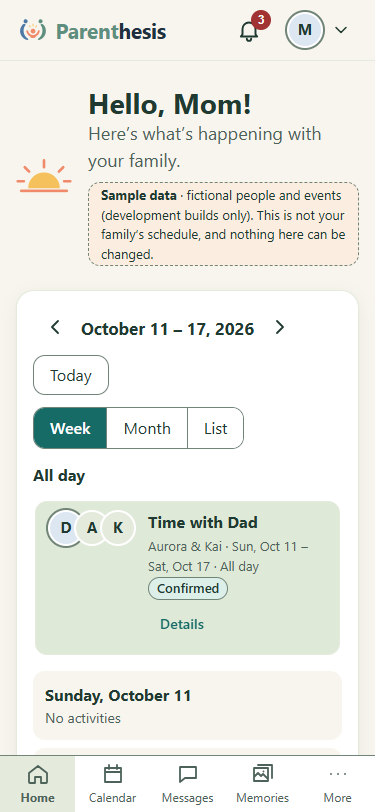
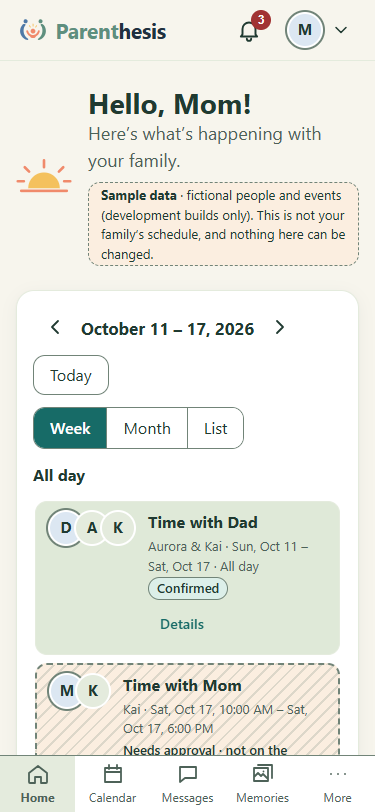
feat(dashboard): proposals on the calendar (hatched), single account menu
User decisions, October 17, 2026:
- Proposed parenting time now appears in the calendar's all-day row, in its
  own lane beneath the schedule, with diagonal hatching, a dashed outline, a
  "Proposed" label and "Needs approval · not on the schedule yet" (tooltip and
  screen-reader text in narrow blocks). Replaces the strip below the grid.
- The sidebar no longer repeats the "Hi, {name}!" profile button; the account
  menu lives in the top bar only.

Changed region(s): [[0.088, 0.8005, 0.9093, 0.9544]]

diff --git a/src/frontend/src/app/features/dashboard/dashboard-page.spec.ts b/src/frontend/src/app/features/dashboard/dashboard-page.spec.ts
@@ -148,7 +148,7 @@ describe('DashboardPage (approved design)', () => {
 
     it('shows multi-day parenting time as one continuous block with the parent’s and children’s avatars', async () => {
       const { el } = await render({ sample: true });
-      const blocks = [...el.querySelectorAll('.allday > li')];
+      const blocks = [...el.querySelectorAll('.allday > li[data-status="confirmed"]')];
 
       expect(blocks).toHaveLength(1);
       expect(text(blocks[0].querySelector('.pt__title'))).toBe('Time with Dad');
@@ -176,13 +176,18 @@ describe('DashboardPage (approved design)', () => {
       expect(text(columns[3])).toContain('Soccer Practice'); // Wednesday
     });
 
-    it('keeps proposals out of the schedule and clearly labelled', async () => {
+    it('shows proposals on the calendar, below the schedule, marked as proposed and needing approval', async () => {
       const { el } = await render({ sample: true });
-      const proposal = el.querySelector('.proposals li')!;
+      const blocks = [...el.querySelectorAll<HTMLElement>('.allday > li')];
+      const proposal = blocks.find((li) => text(li).includes('Time with Mom'))!;
 
-      expect(text(proposal)).toContain('Time with Mom');
+      expect(proposal.getAttribute('data-status')).toBe('proposed'); // Hatched, dashed outline.
       expect(text(proposal)).toContain('Proposed');
-      expect([...el.querySelectorAll('.allday > li')].some((li) => text(li).includes('Time with Mom'))).toBe(false);
+      expect(text(proposal)).toContain('Needs approval');
+      expect(proposal.style.getPropertyValue('--lane')).toBe('2'); // Its own lane beneath the confirmed schedule.
+      const confirmed = blocks.find((li) => text(li).includes('Time with Dad'))!;
+      expect(confirmed.getAttribute('data-status')).toBe('confirmed');
+      expect(text(confirmed)).not.toContain('Needs approval');
     });
 
     it('lists what needs this parent’s review first in Upcoming, linking to approvals', async () => {
@@ -201,7 +206,7 @@ describe('DashboardPage (approved design)', () => {
       toggle().click();
       await settle(fixture);
       expect(toggle().getAttribute('aria-pressed')).toBe('true');
-      expect(el.querySelectorAll('.allday > li')).toHaveLength(2);
+      expect(el.querySelectorAll('.allday > li[data-status="confirmed"]')).toHaveLength(2);
 
       button(el, 'Next week').click();
       await settle(fixture);

diff --git a/src/frontend/src/app/features/dashboard/week-calendar.html b/src/frontend/src/app/features/dashboard/week-calendar.html
@@ -59,6 +59,7 @@
                 [style.--start]="place.startColumn"
                 [style.--end]="place.endColumn"
                 [style.--lane]="place.lane + 1"
+                [attr.title]="block.status === 'proposed' ? 'Proposed: needs approval, not on the schedule yet' : null"
               >
                 <span class="pt__icon" aria-hidden="true"><app-icon name="calendar" [size]="22" /></span>
                 <span class="pt__avatars" aria-hidden="true">
@@ -78,6 +79,9 @@
                     }
                   </span>
                   <span class="pt__meta">{{ childNames(block.children) }} · {{ range(block) }}</span>
+                  @if (block.status === 'proposed') {
+                    <span class="pt__note">Needs approval · not on the schedule yet</span>
+                  }
                   @if (block.status === 'confirmed' && !block.changePending) {
                     <span class="visually-hidden">, confirmed</span>
                   }
@@ -158,6 +162,9 @@
               <span class="pt__text">
                 <span class="pt__title">{{ block.title }}</span>
                 <span class="pt__meta">{{ childNames(block.children) }} · {{ range(block) }}</span>
+                @if (block.status === 'proposed') {
+                  <span class="pt__note">Needs approval · not on the schedule yet</span>
+                }
                 <span class="pt__status">
                   <app-status-label [status]="block.status" />
                   @if (block.changePending) {
@@ -226,22 +233,6 @@
         }
       </ol>
     </div>
-
-    <!-- Proposals are not schedule: compact lines outside the grid, always labelled Proposed. -->
-    @if (proposals().length > 0) {
-      <section class="proposals" aria-labelledby="proposals-heading">
-        <h3 id="proposals-heading">Proposed changes</h3>
-        <ul>
-          @for (block of proposals(); track block.key) {
-            <li>
-              <app-status-label status="proposed" />
-              <span>{{ block.title }} · {{ childNames(block.children) }} · {{ range(block) }}</span>
-            </li>
-          }
-        </ul>
-        <p class="muted">Not on the calendar until both parents agree.</p>
-      </section>
-    }
 
     <footer class="cal__footer">
       @if (split()) {

diff --git a/src/frontend/src/app/features/dashboard/week-calendar.scss b/src/frontend/src/app/features/dashboard/week-calendar.scss
@@ -217,9 +217,22 @@ ul {
   }
 }
 
+// Proposed: diagonal hatching, a dashed outline and written labels, never colour alone. Not part of the schedule.
 .pt[data-status='proposed'] {
   border: 2px dashed var(--color-outline);
-  background: var(--color-status-pending-bg);
+  background:
+    repeating-linear-gradient(
+      -45deg,
+      transparent 0 7px,
+      color-mix(in srgb, var(--color-outline) 22%, transparent) 7px 9px
+    ),
+    var(--color-status-pending-bg);
+}
+
+.pt__note {
+  color: var(--color-text);
+  font-size: 0.8125rem;
+  font-weight: 600;
 }
 
 .pt__icon {
@@ -536,31 +549,19 @@ ul {
   .pt__meta {
     display: none;
   }
-}
 
-// Proposals stay outside the grid (they aren't schedule yet): one compact line each, so the calendar keeps close to
-// its approved height.
-.proposals {
-  display: flex;
-  flex-wrap: wrap;
-  align-items: center;
-  gap: var(--space-1) var(--space-3);
-  margin-top: var(--space-2);
-  font-size: 0.875rem;
-
-  h3 {
-    font-size: 0.875rem;
+  // Short proposals keep the hatching, dashed outline and "Proposed" label; the longer note moves to the tooltip
+  // (and stays available to screen readers) so the block stays compact.
+  .pt__note {
+    position: absolute;
+    width: 1px;
+    height: 1px;
+    overflow: hidden;
+    clip-path: inset(50%);
+    white-space: nowrap;
   }
 
-  ul {
-    display: contents;
-  }
-
-  li {
-    display: inline-flex;
-    flex-wrap: wrap;
-    align-items: center;
-    gap: var(--space-1) var(--space-2);
-    min-width: 0;
+  .pt__title {
+    font-size: 0.9375rem;
   }
 }

diff --git a/src/frontend/src/app/features/dashboard/week-calendar.ts b/src/frontend/src/app/features/dashboard/week-calendar.ts
@@ -95,9 +95,15 @@ export class WeekCalendar {
   );
 
   private readonly blocks = computed(() => groupParentingTime(this.week()?.parentingTime ?? [], { split: this.split() }));
-  /** The schedule: confirmed (and rejected) arrangements. Proposals are listed separately below the grid. */
-  protected readonly allDay = computed(() => this.blocks().filter((b) => b.status !== 'proposed'));
-  protected readonly proposals = computed(() => this.blocks().filter((b) => b.status === 'proposed'));
+  /**
+   * The all-day row: the schedule (confirmed and rejected arrangements) first, then proposals, which take their own
+   * lane beneath it. Proposals are hatched, outlined and labelled "Proposed · Needs approval", so they never read as
+   * part of the schedule (approved by the user on October 17, 2026).
+   */
+  protected readonly allDay = computed(() => [
+    ...this.blocks().filter((b) => b.status !== 'proposed'),
+    ...this.blocks().filter((b) => b.status === 'proposed'),
+  ]);
   protected readonly placements = computed(() => placeInWeek(this.allDay(), this.weekStart()));
   protected readonly allDayLanes = computed(() => Math.max(1, ...[...this.placements().values()].map((p) => p.lane + 1)));
 

diff --git a/src/frontend/src/app/layout/shells.spec.ts b/src/frontend/src/app/layout/shells.spec.ts
@@ -44,11 +44,14 @@ describe('application shells', () => {
       expect(body.querySelector('main h1')!.textContent).toBe('Child Essentials');
     });
 
-    it('offers an account menu instead of a bare sign-out button', async () => {
+    it('offers one account menu, in the top bar, instead of a bare sign-out button', async () => {
       const body = await open('/');
 
-      expect([...body.querySelectorAll('button[aria-label="Account menu"]')]).toHaveLength(2); // Sidebar and top bar.
-      expect(body.textContent).toContain('Hi, Alex!');
+      const menus = [...body.querySelectorAll('button[aria-label="Account menu"]')];
+      expect(menus).toHaveLength(1);
+      expect(menus[0].closest('header.topbar')).not.toBeNull();
+      expect(menus[0].textContent).toContain('Alex');
+      expect(body.querySelector('.sidebar')!.textContent).not.toContain('Hi, Alex');
     });
 
     it('marks the current page for assistive technology', async () => {

diff --git a/src/frontend/src/app/layout/parent-shell/parent-shell.scss b/src/frontend/src/app/layout/parent-shell/parent-shell.scss
@@ -38,8 +38,7 @@ ul {
   font-size: 1.05rem;
 }
 
-.account,
-.profile {
+.account {
   display: inline-flex;
   align-items: center;
   gap: var(--space-2);
@@ -242,19 +241,6 @@ a.is-active {
     font-size: 1.6rem;
     line-height: 1.3;
     transform: rotate(-8deg);
-  }
-
-  .profile {
-    justify-content: flex-start;
-    width: 100%;
-    padding: var(--space-2) var(--space-3);
-    border-top: 1px solid var(--color-surface-soft);
-    border-radius: var(--radius-control);
-
-    .profile__hi {
-      flex: 1;
-      text-align: start;
-    }
   }
 
   .topbar {

diff --git a/src/frontend/src/app/layout/parent-shell/parent-shell.html b/src/frontend/src/app/layout/parent-shell/parent-shell.html
@@ -52,11 +52,7 @@
       <p class="tagline">Different homes.<br />Same love.</p>
     </div>
 
-    <button class="profile" type="button" [matMenuTriggerFor]="accountMenu" aria-label="Account menu">
-      <app-avatar [name]="firstName()" kind="parent" [size]="40" />
-      <span class="profile__hi">Hi, {{ firstName() }}!</span>
-      <app-icon name="chevron-down" [size]="20" />
-    </button>
+    <!-- No profile button here: the account menu is in the top bar only (user decision, October 17, 2026). -->
   </aside>
 
   <header class="topbar">

diff --git a/src/frontend/src/app/layout/parent-shell/parent-shell.ts b/src/frontend/src/app/layout/parent-shell/parent-shell.ts
@@ -19,7 +19,7 @@ const SECTION_ACTIVE: IsActiveMatchOptions = { paths: 'subset', ...IGNORE_QUERY 
 
 /**
  * The parent shell from the approved dashboard: a calm left sidebar (brand, navigation in the approved order,
- * leaves and tagline, profile) on wide screens; a top bar and bottom navigation on phones.
+ * leaves and tagline) on wide screens, with the account menu in the top bar; a top bar and bottom navigation on phones.
  */
 @Component({
   selector: 'app-parent-shell',
